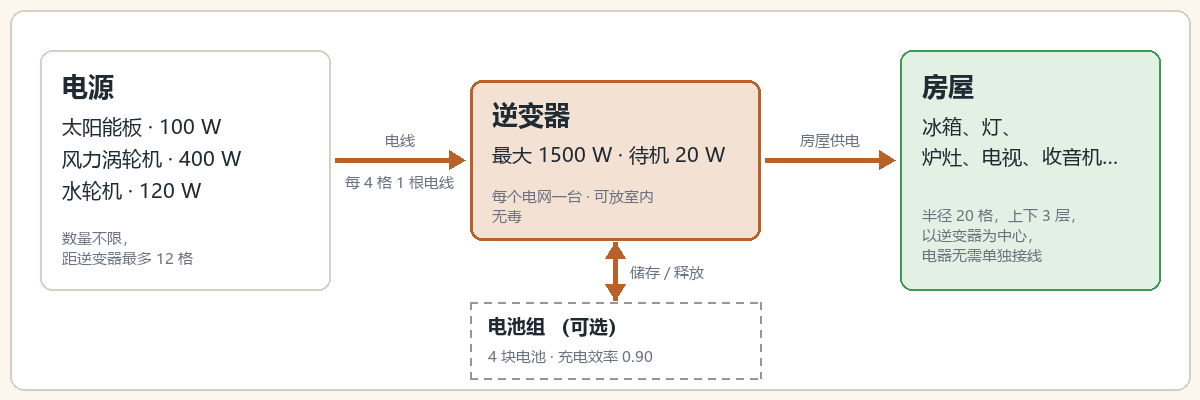
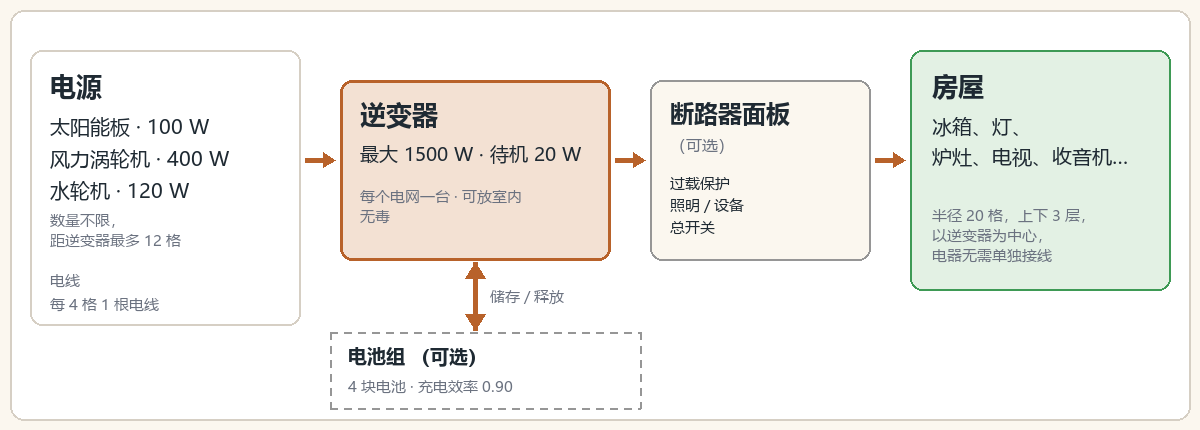
Add the optional breaker to translated wiring diagrams

Changed region(s): [[0.0, 0.09, 0.9867, 0.99], [0.0308, 0.0, 0.9867, 0.03], [0.3083, 0.75, 0.3392, 0.78]]

diff --git a/tools/make_doc_images.py b/tools/make_doc_images.py
@@ -255,6 +255,19 @@ def save(im, name, lang):
 
 # --- 1. Diagram ---------------------------------------------------------------------------------
 
+BREAKER_NOTES = {
+    "EN": "Overload protection\nLighting / equipment\nMain switch",
+    "FR": "Protection surcharge\nÉclairage / équipements\nCoupure principale",
+    "DE": "Überlastschutz\nLicht / Geräte\nHauptschalter",
+    "ES": "Protección de sobrecarga\nIluminación / equipos\nInterruptor general",
+    "PTBR": "Proteção de sobrecarga\nIluminação / equipamentos\nInterruptor geral",
+    "PT": "Proteção de sobrecarga\nIluminação / equipamentos\nInterruptor principal",
+    "RU": "Защита от перегрузки\nСвет / приборы\nОбщий выключатель",
+    "CN": "过载保护\n照明 / 设备\n总开关",
+    "JP": "過負荷保護\n照明 / 機器\n主回路スイッチ",
+    "KO": "과부하 보호\n조명 / 장비\n메인 스위치",
+}
+
 
 def diagram(lang):
     # Device names as the translated game shows them; powers and notes from the labels above.
@@ -265,49 +278,56 @@ def diagram(lang):
     t["wind"] = "%s \u00b7 400 %s" % (item("WindTurbine"), unit)
     t["water"] = "%s \u00b7 120 %s" % (item("WaterWheel"), unit)
     t["inverter"] = item("Inverter").upper()
-    t["bank"] = "%s %s" % (item("PowerBank").upper(), t["bank"][t["bank"].rfind("("):] if "(" in t["bank"]
-                           else t["bank"][t["bank"].rfind("\uff08"):])
-    W, H = 1200, 400
+    optional = t["bank"][t["bank"].rfind("("):] if "(" in t["bank"] else t["bank"][t["bank"].rfind("\uff08"):]
+    t["bank"] = "%s %s" % (item("PowerBank").upper(), optional)
+    W, H = 1200, 430
     im = Image.new("RGB", (W, H), BG)
     d = ImageDraw.Draw(im)
-    fT, fS = font(lang, 26, True), font(lang, 15)
+    fT = font(lang, 26, True)
     d.rounded_rectangle((10, 10, W - 10, H - 10), 14, fill=CARD, outline=LINE, width=2)
     # Sources
-    d.rounded_rectangle((40, 50, 330, 290), 12, fill=CARD, outline=LINE, width=2)
-    text(d, (62, 68), t["sources"], fT)
+    d.rounded_rectangle((30, 50, 300, 325), 12, fill=CARD, outline=LINE, width=2)
+    text(d, (50, 68), t["sources"], fT)
     src = "\n".join((t["solar"], t["wind"], t["water"]))
-    text(d, (62, 112), src, fit(d, src, lang, 20, 255), spacing=10)
-    text(d, (62, 228), t["src_note"], fit(d, t["src_note"], lang, 15, 255), MUTED)
+    text(d, (50, 112), src, fit(d, src, lang, 20, 230), spacing=10)
+    text(d, (50, 210), t["src_note"], fit(d, t["src_note"], lang, 15, 230), MUTED)
+    text(d, (50, 270), t["wire"], fit(d, t["wire"], lang, 15, 230), MUTED)
+    text(d, (50, 294), t["wire_cost"], fit(d, t["wire_cost"], lang, 15, 230), MUTED)
     # Inverter
-    d.rounded_rectangle((470, 80, 760, 240), 12, fill=ACCENT_BG, outline=ACCENT, width=3)
-    text(d, (492, 96), t["inverter"], fit(d, t["inverter"], lang, 26, 250, True))
-    text(d, (492, 140), t["inv_main"], fit(d, t["inv_main"], lang, 20, 250))
-    text(d, (492, 186), t["inv_note"], fit(d, t["inv_note"], lang, 15, 250), MUTED)
+    d.rounded_rectangle((340, 80, 610, 260), 12, fill=ACCENT_BG, outline=ACCENT, width=3)
+    text(d, (360, 96), t["inverter"], fit(d, t["inverter"], lang, 26, 230, True))
+    text(d, (360, 140), t["inv_main"], fit(d, t["inv_main"], lang, 20, 230))
+    text(d, (360, 186), t["inv_note"], fit(d, t["inv_note"], lang, 15, 230), MUTED)
+    # Optional breaker, between the inverter and the household distribution.
+    d.rounded_rectangle((650, 80, 870, 260), 12, fill=BG, outline=GREY, width=2)
+    breaker = item("Breaker").upper()
+    text(d, (670, 96), breaker, fit(d, breaker, lang, 24, 180, True))
+    text(d, (670, 134), optional, fit(d, optional, lang, 16, 180), MUTED)
+    note = BREAKER_NOTES[lang]
+    text(d, (670, 173), note, fit(d, note, lang, 15, 180), spacing=6)
     # House
-    d.rounded_rectangle((900, 50, 1160, 290), 12, fill=GREEN_BG, outline=GREEN, width=2)
-    text(d, (922, 68), t["house"], fT)
-    text(d, (922, 112), t["house_main"], fit(d, t["house_main"], lang, 20, 225), spacing=8)
-    text(d, (922, 205), t["house_note"], fit(d, t["house_note"], lang, 15, 225), MUTED)
+    d.rounded_rectangle((910, 50, 1170, 290), 12, fill=GREEN_BG, outline=GREEN, width=2)
+    text(d, (932, 68), t["house"], fT)
+    text(d, (932, 112), t["house_main"], fit(d, t["house_main"], lang, 20, 225), spacing=8)
+    text(d, (932, 205), t["house_note"], fit(d, t["house_note"], lang, 15, 225), MUTED)
     # Arrows
-    arrow(d, 335, 160, 465, 160)
-    text(d, (400, 150), t["wire"], fit(d, t["wire"], lang, 15, 125), MUTED, anchor="md")
-    text(d, (400, 172), t["wire_cost"], fit(d, t["wire_cost"], lang, 15, 125), MUTED, anchor="ma")
-    arrow(d, 765, 160, 895, 160)
-    text(d, (830, 150), t["house_power"], fit(d, t["house_power"], lang, 15, 125), MUTED, anchor="md")
+    arrow(d, 305, 160, 335, 160, head=12)
+    arrow(d, 615, 160, 645, 160, head=12)
+    arrow(d, 875, 160, 905, 160, head=12)
     # Power bank
-    d.line((615, 242, 615, 300), fill=ACCENT, width=5)
-    d.polygon([(615, 242), (605, 258), (625, 258)], fill=ACCENT)
-    d.polygon([(615, 300), (605, 284), (625, 284)], fill=ACCENT)
-    text(d, (630, 262), t["store"], fS, MUTED)
-    x0, x1 = 470, 760
+    d.line((475, 262, 475, 330), fill=ACCENT, width=5)
+    d.polygon([(475, 262), (465, 278), (485, 278)], fill=ACCENT)
+    d.polygon([(475, 330), (465, 314), (485, 314)], fill=ACCENT)
+    text(d, (490, 286), t["store"], fit(d, t["store"], lang, 15, 190), MUTED)
+    x0, x1 = 330, 640
     for x in range(x0, x1, 14):
-        d.line((x, 302, min(x + 7, x1), 302), fill=GREY, width=2)
-        d.line((x, 378, min(x + 7, x1), 378), fill=GREY, width=2)
-    for y in range(302, 378, 14):
-        d.line((x0, y, x0, min(y + 7, 378)), fill=GREY, width=2)
-        d.line((x1, y, x1, min(y + 7, 378)), fill=GREY, width=2)
-    text(d, (488, 312), t["bank"], fit(d, t["bank"], lang, 19, 255, True))
-    text(d, (488, 346), t["bank_note"], fS, MUTED)
+        d.line((x, 332, min(x + 7, x1), 332), fill=GREY, width=2)
+        d.line((x, 408, min(x + 7, x1), 408), fill=GREY, width=2)
+    for y in range(332, 408, 14):
+        d.line((x0, y, x0, min(y + 7, 408)), fill=GREY, width=2)
+        d.line((x1, y, x1, min(y + 7, 408)), fill=GREY, width=2)
+    text(d, (348, 342), t["bank"], fit(d, t["bank"], lang, 19, 274, True))
+    text(d, (348, 376), t["bank_note"], fit(d, t["bank_note"], lang, 15, 274), MUTED)
     save(im, "diagram", lang)
 
 
